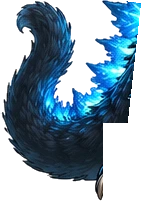
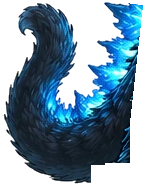
Grunt: legs re-cut at the knees with a solid overlap and soft fade (no seam lines or gaps when he bobs and stomps); feet lift from the knee instead of sliding; stray tail scrap fixed; edge colours bled so no pale lines
Claude-Session: https://claude.ai/code/session_01KtnnmncaZrvFEhmEP7SEfj

diff --git a/src/scenes/Run.js b/src/scenes/Run.js
@@ -1,12 +1,12 @@
 // Running stages for every world (1 = easy to medium, 2 = busier and harder), then on to that world's boss.
 // Hearts, Chaos Meter and score carry from stage 1 to stage 2 to the boss; part 2 is a checkpoint.
-import { Gremlin } from '../gremlin/Gremlin.js?v=20261015131435';
-import { WORLDS, worldNo, loadMeadow, loadWild } from '../worlds.js?v=20261015131435';
-import { Chase, CHASE } from './Chase.js?v=20261015131435';
-import { Wolf, Eagle, Fox } from '../creatures/Wild.js?v=20261015131435';
-import { Music } from '../audio/Music.js?v=20261015131435';
-import { Frog, Gator, Bat, Spider } from '../creatures/Creatures.js?v=20261015131435';
-import { Bunny, Kitten, Flower, Swarm } from '../creatures/Meadow.js?v=20261015131435';
+import { Gremlin } from '../gremlin/Gremlin.js?v=20261015142201';
+import { WORLDS, worldNo, loadMeadow, loadWild } from '../worlds.js?v=20261015142201';
+import { Chase, CHASE } from './Chase.js?v=20261015142201';
+import { Wolf, Eagle, Fox } from '../creatures/Wild.js?v=20261015142201';
+import { Music } from '../audio/Music.js?v=20261015142201';
+import { Frog, Gator, Bat, Spider } from '../creatures/Creatures.js?v=20261015142201';
+import { Bunny, Kitten, Flower, Swarm } from '../creatures/Meadow.js?v=20261015142201';
 
 const CREATURES = { frog: Frog, gator: Gator, bat: Bat, spider: Spider, bunny: Bunny, kitten: Kitten, flower: Flower, swarm: Swarm, wolf: Wolf, eagle: Eagle, fox: Fox };
 // rainbow beam (World 2): turret size, how far it sinks into the path, and the beam's band (px above the ground)

diff --git a/src/scenes/Overlord.js b/src/scenes/Overlord.js
@@ -4,11 +4,11 @@
 //   Phase 3 Royal Tantrum (<35%): horn glows purple; salmon + spoons combined; a telegraphed bunny stampede, then she's dizzy.
 // Arena rules are the same as Eddie's (whole-screen boss, joystick movement, high ground, everything aimed and telegraphed),
 // so this scene reuses the Eddie scene's machinery and swaps in her moves.
-import { Boss, GROUND_Y, BOSS_TUNING } from './Boss.js?v=20261015131435';
-import { Gremlin } from '../gremlin/Gremlin.js?v=20261015131435';
-import { Catalytik, ease } from '../overlord/Catalytik.js?v=20261015131435';
-import { Music } from '../audio/Music.js?v=20261015131435';
-import { loadMeadow } from '../worlds.js?v=20261015131435';
+import { Boss, GROUND_Y, BOSS_TUNING } from './Boss.js?v=20261015142201';
+import { Gremlin } from '../gremlin/Gremlin.js?v=20261015142201';
+import { Catalytik, ease } from '../overlord/Catalytik.js?v=20261015142201';
+import { Music } from '../audio/Music.js?v=20261015142201';
+import { loadMeadow } from '../worlds.js?v=20261015142201';
 
 const W = 1920;
 const GREM_H = 330, BOSS_H = 620;

diff --git a/src/grunt/Grunt.js b/src/grunt/Grunt.js
@@ -43,8 +43,9 @@ export class Grunt {
     // stomp walk: one heavy step every ~0.45 s
     if (walking) this.q += dt * 7 * this.speed;
     const s = Math.sin(this.q), liftF = Math.max(0, s), liftB = Math.max(0, -s);
-    P.legF.y = this.R.legF.py - 26 * liftF; P.legF.x = this.R.legF.px + 18 * liftF; P.legF.rotation = -8 * liftF * D;
-    P.legB.y = this.R.legB.py - 26 * liftB; P.legB.x = this.R.legB.px + 18 * liftB; P.legB.rotation = -8 * liftB * D;
+    // legs are cut at the knee with a soft edge (Cath, 15 Oct): each foot lifts from the knee and tips its toes up, without sliding
+    P.legF.y = this.R.legF.py - 16 * liftF; P.legF.x = this.R.legF.px; P.legF.rotation = -5 * liftF * D;
+    P.legB.y = this.R.legB.py - 10 * liftB; P.legB.x = this.R.legB.px; P.legB.rotation = 0;   // far leg: a straight lift
     P.body.y = this.R.body.py - 10 * Math.abs(Math.cos(this.q)); P.body.rotation = (2 * Math.sin(this.q) - 4 * this.flinch) * D;
     P.tail.rotation = (10 * Math.sin(this.t * 2.2) + 4 * s) * D;
     const step = Math.sign(s);

diff --git a/src/scenes/Boss.js b/src/scenes/Boss.js
@@ -1,11 +1,11 @@
 // Level 1 boss: Eddie, The Mould King, in The Festering Swamp.
 // Arena rules (approved 14 Oct 2026): Eddie moves around the whole arena; the gremlin can move left/right;
 // roots and logs give high ground; attacks are aimed at the gremlin and always telegraphed.
-import { Gremlin } from '../gremlin/Gremlin.js?v=20261015131435';
-import { Eddie } from '../eddie/Eddie.js?v=20261015131435';
-import { Swamp } from '../world/Swamp.js?v=20261015131435';
-import { Music } from '../audio/Music.js?v=20261015131435';
-import { MAX_HEARTS } from './Run.js?v=20261015131435';
+import { Gremlin } from '../gremlin/Gremlin.js?v=20261015142201';
+import { Eddie } from '../eddie/Eddie.js?v=20261015142201';
+import { Swamp } from '../world/Swamp.js?v=20261015142201';
+import { Music } from '../audio/Music.js?v=20261015142201';
+import { MAX_HEARTS } from './Run.js?v=20261015142201';
 
 export const GROUND_Y = 870;
 const W = 1920;

diff --git a/src/worlds.js b/src/worlds.js
@@ -1,8 +1,8 @@
 // The worlds, in the locked GDD order. Each world = two running stages, then its boss.
-import { STAGE1, STAGE2, W2_STAGE1, W2_STAGE2, W3_RUN1 } from './course.js?v=20261015131435';
-import { Swamp, Meadow, Wild, MEADOW_FILES, WILD_FILES } from './world/Swamp.js?v=20261015131435';
-import { GRUNT_PARTS } from './grunt/Grunt.js?v=20261015131435';
-import { MEADOW_CREATURE_PARTS } from './creatures/Creatures.js?v=20261015131435';
+import { STAGE1, STAGE2, W2_STAGE1, W2_STAGE2, W3_RUN1 } from './course.js?v=20261015142201';
+import { Swamp, Meadow, Wild, MEADOW_FILES, WILD_FILES } from './world/Swamp.js?v=20261015142201';
+import { GRUNT_PARTS } from './grunt/Grunt.js?v=20261015142201';
+import { MEADOW_CREATURE_PARTS } from './creatures/Creatures.js?v=20261015142201';
 
 export const WORLDS = {
   1: {

diff --git a/src/main.js b/src/main.js
@@ -1,10 +1,10 @@
 // Gremlin Gauntlet: game entry point.
 // Landscape 16:9 logical play area (1920×1080) scaled to fit any screen.
-import { Boot } from './scenes/Boot.js?v=20261015131435';
-import { Run } from './scenes/Run.js?v=20261015131435';
-import { UI } from './scenes/UI.js?v=20261015131435';
-import { Boss } from './scenes/Boss.js?v=20261015131435';
-import { Overlord } from './scenes/Overlord.js?v=20261015131435';
+import { Boot } from './scenes/Boot.js?v=20261015142201';
+import { Run } from './scenes/Run.js?v=20261015142201';
+import { UI } from './scenes/UI.js?v=20261015142201';
+import { Boss } from './scenes/Boss.js?v=20261015142201';
+import { Overlord } from './scenes/Overlord.js?v=20261015142201';
 
 window.game = new Phaser.Game({
   type: Phaser.AUTO,

diff --git a/src/scenes/UI.js b/src/scenes/UI.js
@@ -1,7 +1,7 @@
 // HUD and controls for whichever game scene is active ('Run' = test course, 'Boss' = Eddie's arena):
 // hearts, Chaos Meter, boss health, pause, touch buttons, swipe gestures, keyboard, overlays.
-import { Music } from '../audio/Music.js?v=20261015131435';
-import { WORLDS, worldNo, LAST_WORLD } from '../worlds.js?v=20261015131435';
+import { Music } from '../audio/Music.js?v=20261015142201';
+import { WORLDS, worldNo, LAST_WORLD } from '../worlds.js?v=20261015142201';
 const FONT = 'Lilita One, Arial Rounded MT Bold, Trebuchet MS, sans-serif';
 const BODY = 'Atkinson Hyperlegible, system-ui, sans-serif';
 const INK = '#ece6f5', VIOLET = 0x9b4dff, ACID = 0xc6f135, MOULD = 0x9fcc1e;

diff --git a/src/scenes/Boot.js b/src/scenes/Boot.js
@@ -1,6 +1,6 @@
-import { SWAMP_FILES } from '../world/Swamp.js?v=20261015131435';
-import { Music } from '../audio/Music.js?v=20261015131435';
-import { CREATURE_PARTS } from '../creatures/Creatures.js?v=20261015131435';
+import { SWAMP_FILES } from '../world/Swamp.js?v=20261015142201';
+import { Music } from '../audio/Music.js?v=20261015142201';
+import { CREATURE_PARTS } from '../creatures/Creatures.js?v=20261015142201';
 // Loads the gremlin's parts and makes the simple placeholder textures used by the test run.
 export const PARTS = ['body', 'head', 'eye', 'ear', 'tail', 'pouch', 'upperArm', 'foreArm', 'upperArmFar', 'foreArmFar',
   'thighN', 'bootN', 'thighFfar', 'bootFfar'];

diff --git a/src/scenes/Chase.js b/src/scenes/Chase.js
@@ -6,8 +6,8 @@
 //     - a magic bolt fired BACK at him (BLAST BACK / swipe left) knocks him well back and stuns him for a moment.
 //   At 100 he catches you: a giant paw swipe ends the attempt (retry this run, meter reset).
 //   The meter carries over to the next run; it only resets when you die.
-import { Grunt } from '../grunt/Grunt.js?v=20261015131435';
-import { Sfx } from '../audio/Music.js?v=20261015131435';
+import { Grunt } from '../grunt/Grunt.js?v=20261015142201';
+import { Sfx } from '../audio/Music.js?v=20261015142201';
 
 export const CHASE = {
   // Difficulty ramps up (Cath, 15 Oct): gentle at the start of Into the Wild, tighter towards its end, and tighter again

diff --git a/src/creatures/Wild.js b/src/creatures/Wild.js
@@ -1,7 +1,7 @@
 // World 3 wildlife (Into the Wild, Cath-approved): wolf, eagle, fox. Each is one drawing from the art sheet,
 // animated by bounding, squashing and tilting (they're fast and on screen only briefly).
 // Same interface as the other creatures: update(dt, ctx), hitbox(), shot(), centre, points, warning.
-import { Creature } from './Creatures.js?v=20261015131435';
+import { Creature } from './Creatures.js?v=20261015142201';
 
 const clamp = (v, a, b) => Math.max(a, Math.min(b, v));
 const ease = k => (k < 0 ? 0 : k > 1 ? 1 : k * k * (3 - 2 * k));

diff --git a/src/creatures/Meadow.js b/src/creatures/Meadow.js
@@ -1,7 +1,7 @@
 // World 2 creatures: Meadows of Malicious Happiness. Deceptively cute, all dangerous (GDD).
 // Same cut-out puppet method and interface as the swamp creatures:
 // update(dt, ctx) moves it; hitbox() is what hurts the gremlin; shot() is called when magic hits it.
-import { Puppet, Creature } from './Creatures.js?v=20261015131435';
+import { Puppet, Creature } from './Creatures.js?v=20261015142201';
 
 const clamp = (v, a, b) => Math.max(a, Math.min(b, v));
 const ease = k => (k < 0 ? 0 : k > 1 ? 1 : k * k * (3 - 2 * k));

diff --git a/src/gremlin/Gremlin.js b/src/gremlin/Gremlin.js
@@ -5,8 +5,8 @@
 import {
   TAU, clamp, ease, seg, lerpPose, runPose, crouchPose, risePose, fallPose, tuckPose, slidePose, hurtPose,
   dieAirPose, deadPose, winPose, idlePose, meltPose, meltLift, MELT_T, MELT_BLAST_AT,
-} from './poses.js?v=20261015131435';
-import { Effects } from './Effects.js?v=20261015131435';
+} from './poses.js?v=20261015142201';
+import { Effects } from './Effects.js?v=20261015142201';
 
 // ---- tuning: placeholders until playtesting (art units; the gremlin is ~800 units tall) ----
 export const TUNING = {
